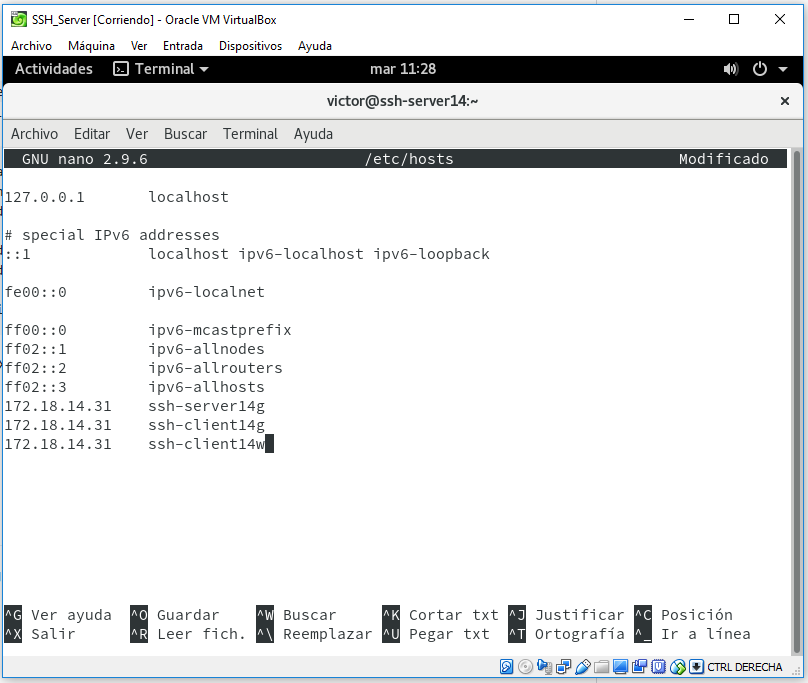
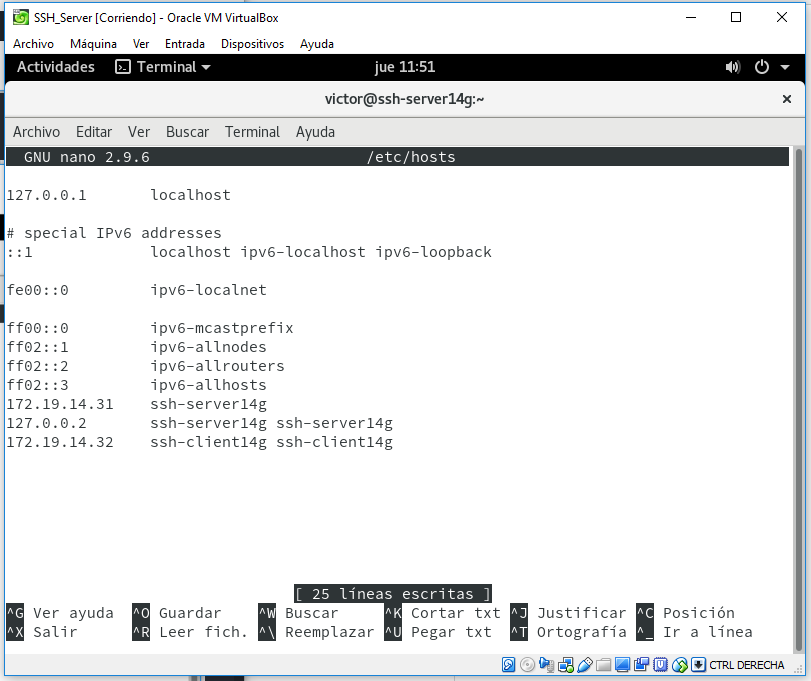
Update5

diff --git a/trim1/u1/SSH/README.md b/trim1/u1/SSH/README.md
@@ -18,8 +18,77 @@ Vamos a hacer los mismo con una máquina virtual más que será el cliente.
 
 Añadimos en **/etc/hosts** los equipos **ssh-clientXXg** y **ssh-clientXXw**.
 
-![](./img/img4.PNG)
+![](./img/imgserverhosts.PNG)
 
 Comprobamos los cambios.
 
 ![](./img/img5.PNG)
+
+![](./img/img6.PNG)
+
+Creamos los siguientes usuarios en el servidor.
+
+![](./img/img7.PNG)
+
+> Yast2 -> Gestión de usuarios y grupos.
+
+## 1.2 Cliente GNU/Linux
+
+Configuramos el cliente de la siguiente manera,
+
+![](./img/img9.PNG)
+
+Añadimos en **/etc/hosts** el equipo **ssh-serverXXg** y **ssh-clientXXw**.
+
+![](./img/imgclienthosts.PNG)
+
+Comprobamos que existe ping entre ambos equipos.
+
+![](./img/img10.PNG)
+
+## 1.3 Cliente Windows.
+
+Configuramos la IP del cliente Windows.
+
+![](./img/img11.PNG)
+
+Cambiamos el nombre del equipo.
+
+![](./img/img12.PNG)
+
+Añadimos las direcciones de las demás máquinas.
+
+![](./img/img13.PNG)
+
+Probamos a hacer ping para observar si se conectan entre ellas.
+
+![](./img/img14.PNG)
+
+# 2. Instalación del servicio SSH.
+
+![](./img/img15.PNG)
+
+## 2.1 Comprobación.
+
+![](./img/img16.PNG)
+
+Observamos los puertos a los que se conecta el ssh.
+
+![](./img/img17.PNG)
+
+## 2.2 Primera conexión SSH desde cliente GNU/Linux.
+
+Comprobamos la conectividad con el servidor desde el cliente.
+
+![](./img/img18.PNG)
+
+Desde el cliente comprobamos que el servicio SSH es visible con el servidor. Debe mostrarnos que el puerto 22 está abierto.
+
+![](./img/img19.PNG)
+
+Vamos a comprobar el funcionamiento de la conexión SSH desde cada cliente usando el usuario 1er-apellido-alumno1.
+Desde el cliente GNU/Linux nos conectamos mediante ssh 1er-apellido-alumno1@ssh-serverXXg. Tendrá lugar una creación de contraseñas que habrá que mostrar con cada usuario.
+
+![](./img/img20.PNG)
+
+![](./img/img21.PNG)
